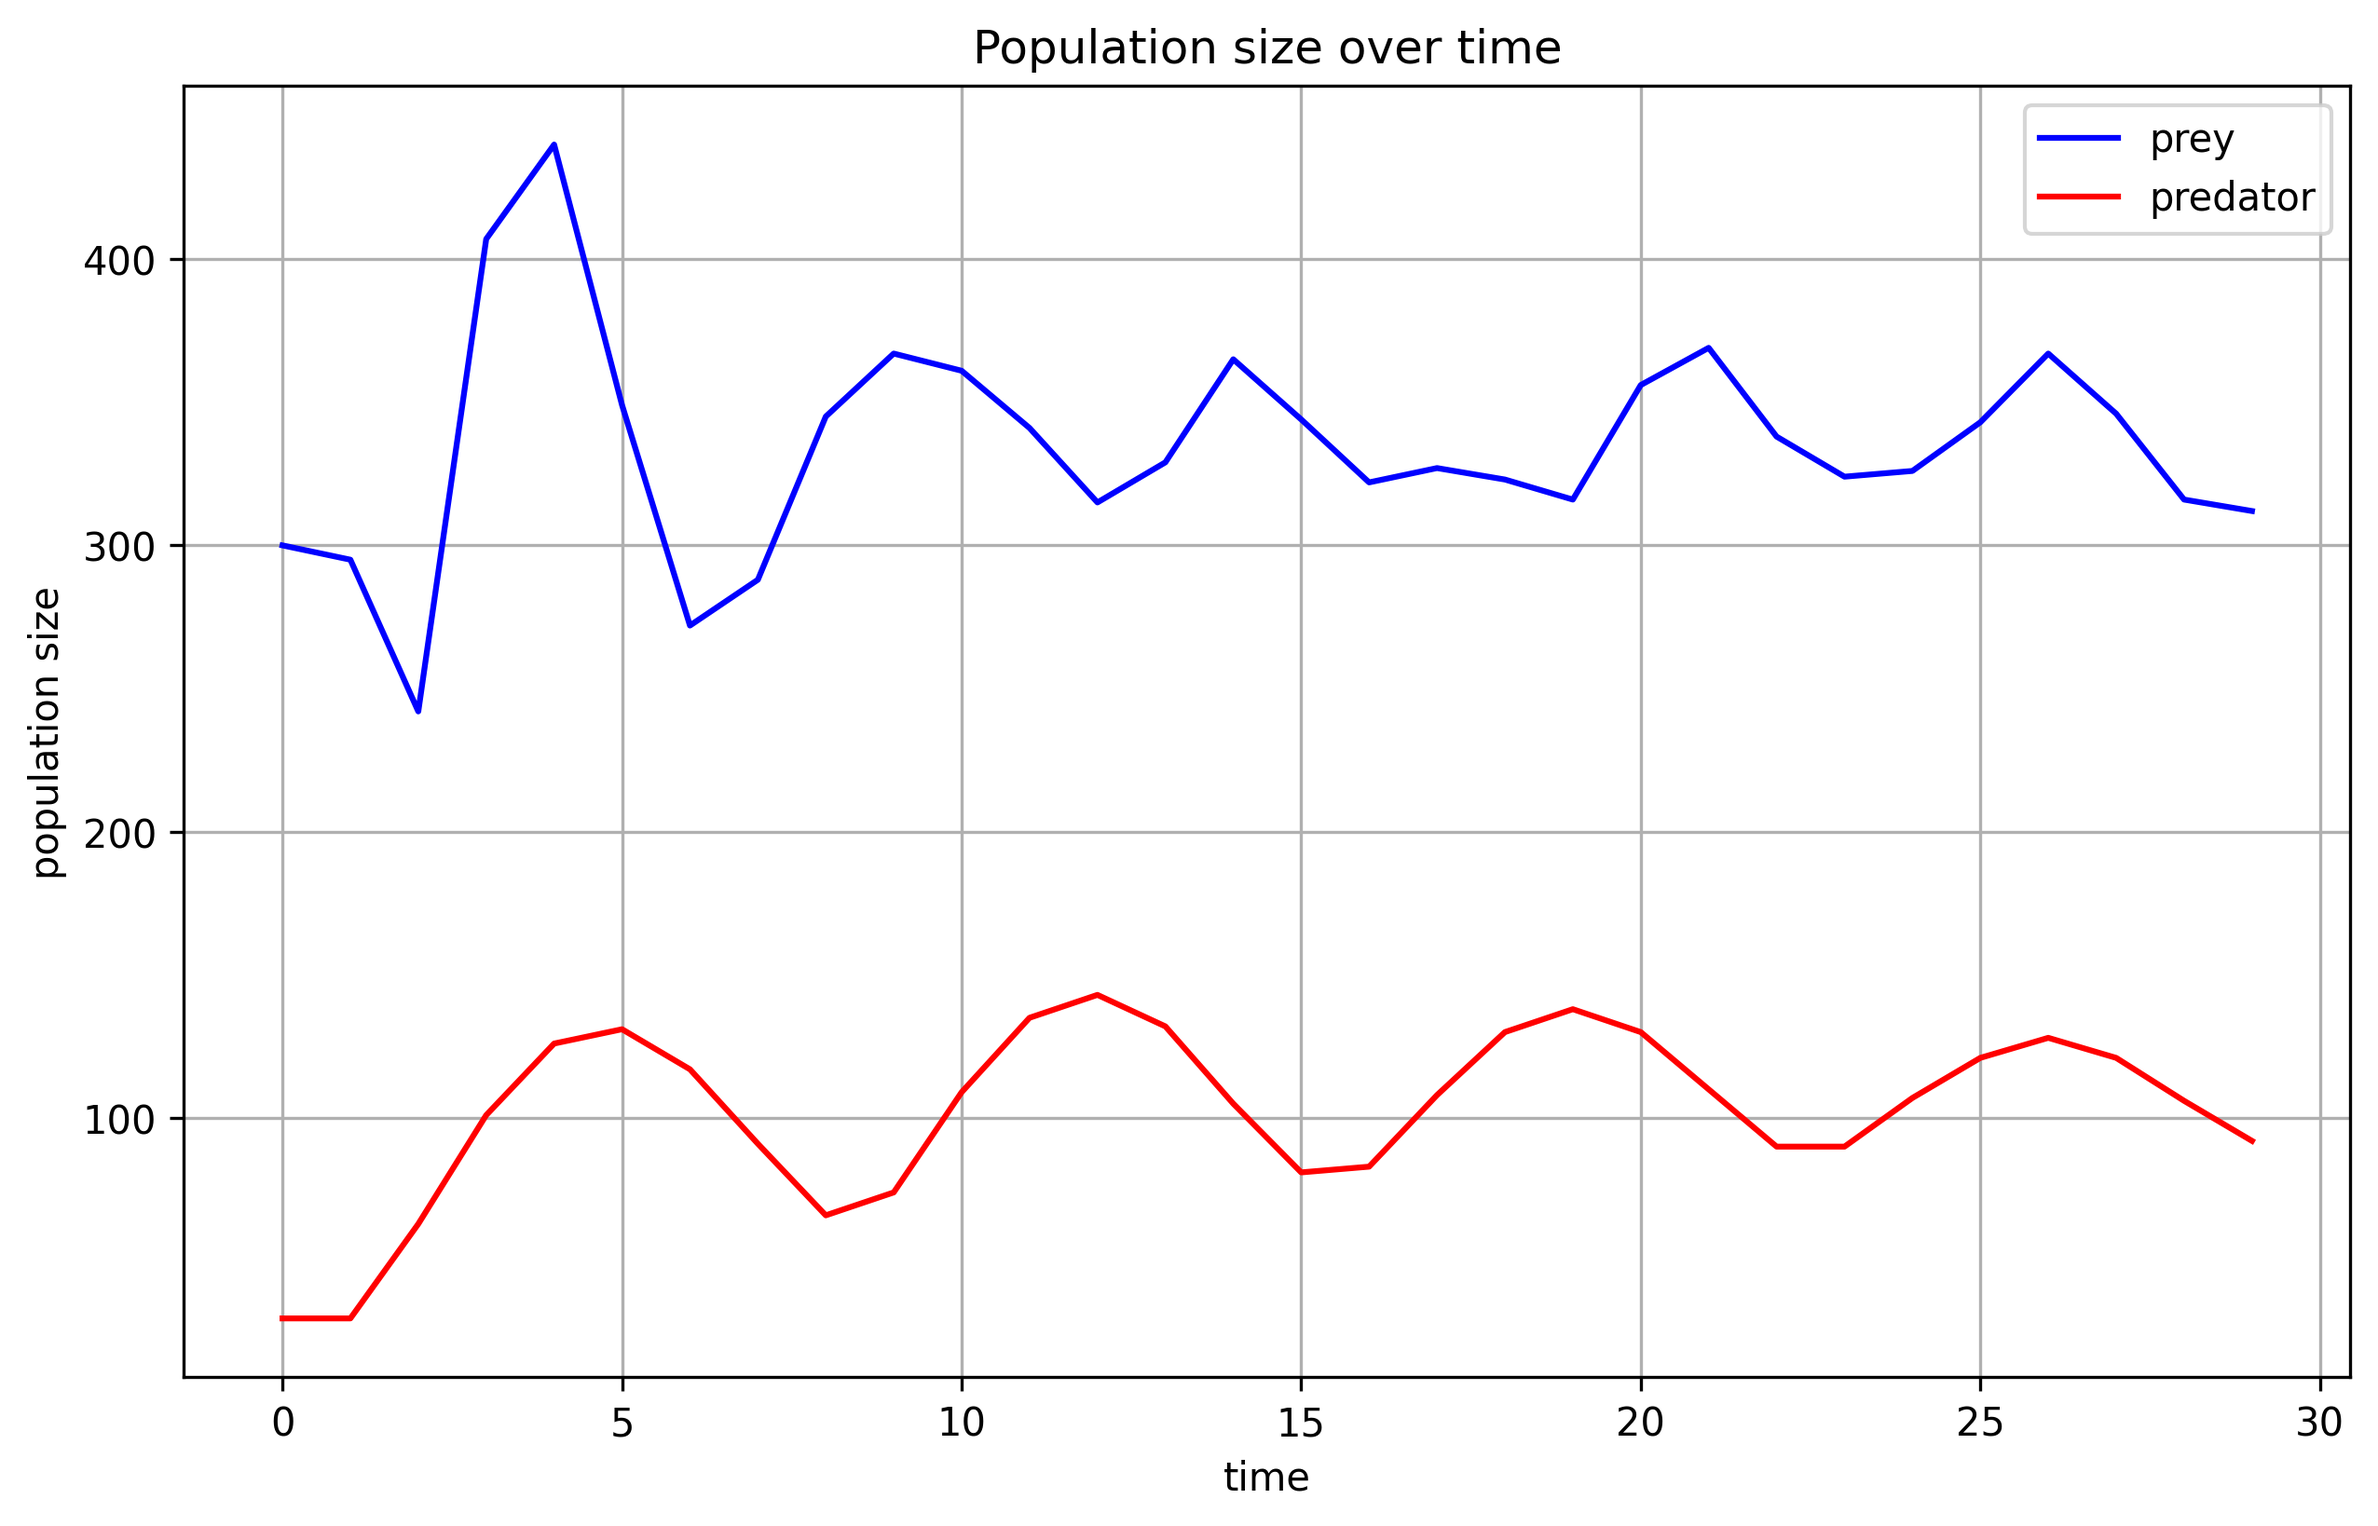
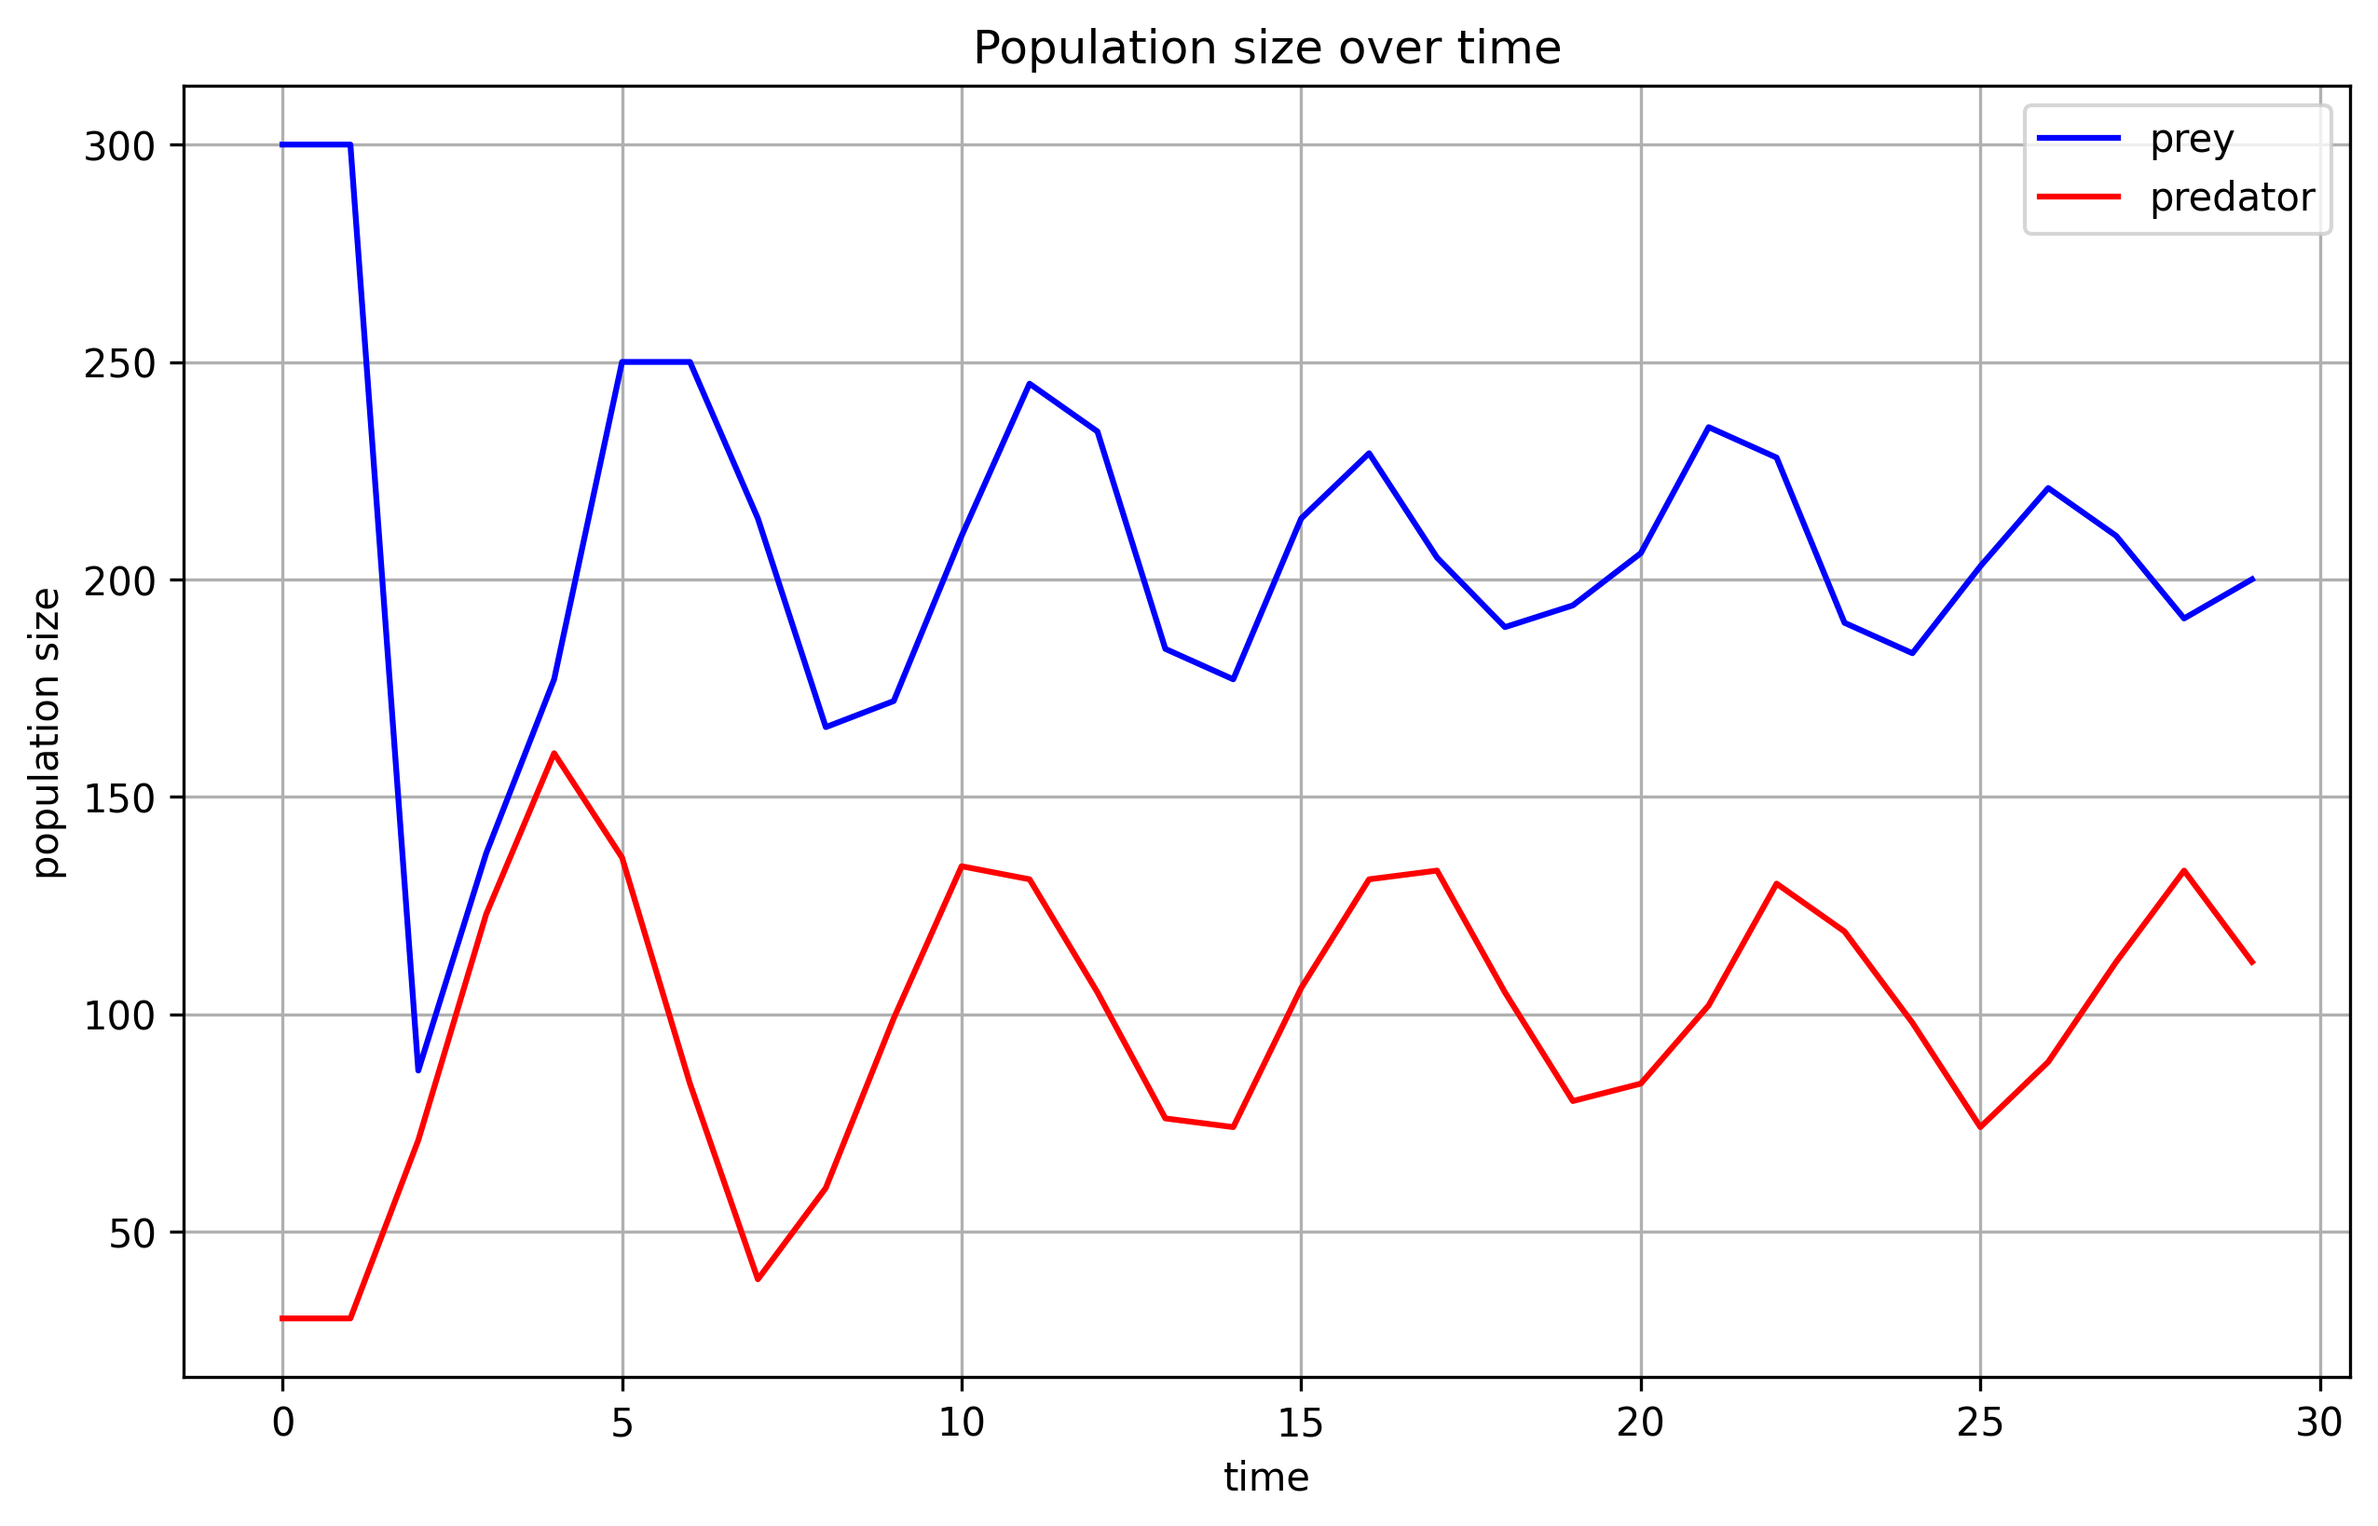
update

diff --git a/Single_Species_Log_Growth.py b/Single_Species_Log_Growth.py
@@ -1,0 +1,109 @@
+# @Author  : Mei Jiaojiao
+# @Time    : 2023/11/30 08:42
+# @Software: PyCharm
+# @File    : Single_Species_Log_Growth.py
+
+
+import matplotlib
+matplotlib.use('qtagg')
+import numpy as np
+from tqdm import tqdm
+import matplotlib.pyplot as plt
+import warnings
+
+warnings.filterwarnings("error")
+
+
+class Agent:
+    def __init__(self, x, y, birth_rate, death_rate, ID, birth_time=None, status=None):
+        self.ID = ID
+        self.x = x
+        self.y = y
+        self.birth_time = birth_time if birth_time else np.random.exponential(1 / birth_rate)
+        self.death_time = np.random.exponential(1 / death_rate)
+        # check if birth time is larger than death time
+        while self.birth_time > self.death_time:
+            self.death_time = np.random.exponential(1 / death_rate)
+        self.num_offspring = np.random.poisson(3)
+        self.status = status
+
+
+class Population:
+    def __init__(self, init_size, birth_rate, death_rate, x_grid, y_grid, ID_Count):
+        self.ID_Count = ID_Count
+        self.size = init_size
+        self.birth_rate = birth_rate
+        self.death_rate = death_rate
+        self.x_grid = x_grid
+        self.y_grid = y_grid
+        self.pop_limit = x_grid * y_grid
+        self.time = 0
+        self.population_history = [self.size]
+        self.time_history = [self.time]
+
+        self.agents = [Agent(np.random.rand() * x_grid, np.random.rand() * y_grid,
+                             birth_rate, death_rate, i, self.time, status='active') for i in range(init_size)]
+
+    def update_agents_will_be_born(self):
+        for agent in self.agents:
+            if self.time - 1 <= agent.birth_time <= self.time:
+                agent.status = 'active'
+
+    def get_agents_will_die(self):
+        agents_will_die = []
+        for agent in self.agents:
+            if self.time - 1 <= agent.death_time <= self.time:
+                agent.status = 'dead'
+                agents_will_die.append(agent)
+        return agents_will_die
+
+    def get_agents_alive(self):
+        agents_alive = []
+        for agent in self.agents:
+            if agent.status == 'active':
+                agents_alive.append(agent)
+        return agents_alive
+
+    def plot_population(self):
+        plt.figure(figsize=(10, 6))
+        plt.plot(self.time_history, self.population_history)
+        plt.xlabel('time')
+        plt.ylabel('population size')
+        plt.title('Population size over time')
+        plt.show()
+
+
+def simulation(x_grid, y_grid, birth_rate, death_rate, time, init_size, location_noise=0.1):
+    ID_Count = init_size
+    population = Population(init_size, birth_rate, death_rate, x_grid, y_grid, ID_Count)
+
+    for _ in tqdm(range(time)):
+        population.time += 1
+        population.time_history.append(population.time)
+
+        agents_alive = population.get_agents_alive()
+        population.size = len(agents_alive)
+        population.population_history.append(population.size)
+        for agent in agents_alive:
+            while agent.num_offspring > 0:
+                agent.num_offspring -= 1
+                if np.random.rand() < (1 - population.size / population.pop_limit):
+                    population.ID_Count += 1
+                    x = agent.x + np.random.choice([-1, 1]) * np.random.rand() * location_noise
+                    y = agent.y + np.random.choice([-1, 1]) * np.random.rand() * location_noise
+                    new_agent = Agent(x, y, birth_rate, death_rate, population.ID_Count)
+                    # update new_agent death_time
+                    new_agent.birth_time += population.time
+                    new_agent.death_time += population.time
+                    population.agents.append(new_agent)
+                    population.size += 1
+
+        population.update_agents_will_be_born()
+        agents_will_die = population.get_agents_will_die()
+        for agent in agents_will_die:
+            population.agents.remove(agent)
+
+    population.plot_population()
+
+
+simulation(100, 100, 0.0015, 0.001, 15000, 40)

diff --git a/Two_Species_3rd.py b/Two_Species_3rd.py
@@ -190,7 +190,7 @@ def update_predators_status(population, current_time):
             agent.status = 'active'
         if not agent.eat:
             agent.not_eat += 1
-        if agent.not_eat == 5:
+        if agent.not_eat == 4:
             agent.status = 'dead'
 
 
@@ -203,29 +203,29 @@ def update_prey_status(population, current_time):
 
 
 # Prey and Predator params
-x_grid = 38
-y_grid = 38
-prey_pop_limit = 650
+x_grid = 28
+y_grid = 28
+prey_pop_limit = 400
 time = 30
 prey_params = {
     'x_grid': x_grid,
     'y_grid': y_grid,
     'species_name': 'prey',
-    'species_average_life_span': 4,
-    'species_offspring_possion_mean': 8,
+    'species_average_life_span': 20,
+    'species_offspring_possion_mean': 10,
     'init_species_size': 300,
-    'activity_radius_max': 1,
-    'speed_max': 3.5
+    'activity_radius_max': 2,
+    'speed_max': 2
 }
-predator_pop_limit = 10
+predator_pop_limit = 150
 predator_params = {
     'x_grid': x_grid,
     'y_grid': y_grid,
     'species_name': 'predator',
     'species_average_life_span': 8,
-    'species_offspring_possion_mean': 1.2,
+    'species_offspring_possion_mean': 1.5,
     'init_species_size': 30,
-    'activity_radius_max': 7,
+    'activity_radius_max': 12,
     'speed_max': 4
 }
 

diff --git a/Two_Species_2nd.py b/Two_Species_2nd.py
@@ -221,7 +221,7 @@ predator_params = {
     'species_name': 'predator',
     'species_average_life_span':7,
     'species_offspring_possion_mean': 0.8,
-    'init_species_size': 10,
+    'init_species_size': 30,
     'activity_radius_max': 4,
     'speed_max': 2.5
 }
